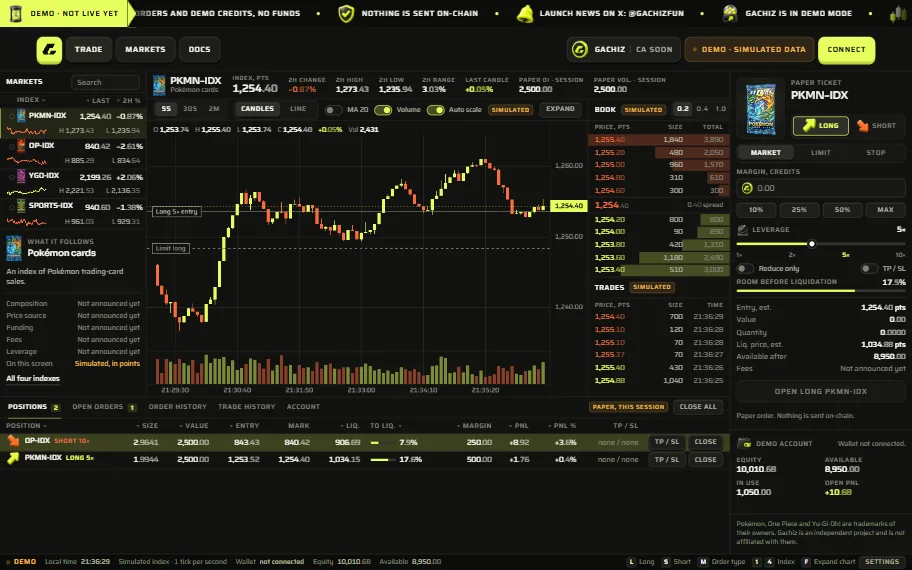
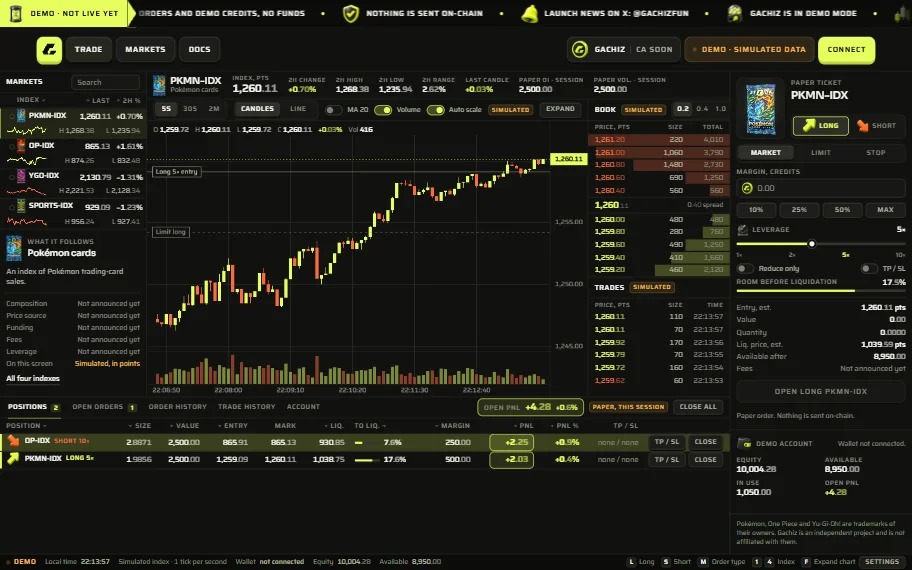
Positions: clearer PnL, footer layout fix

diff --git a/site/docs/index.html b/site/docs/index.html
@@ -300,7 +300,7 @@
 <p>Read the number next to a market code: that is the index level, in points. The chart shows how it got there.</p>
 <figure class="d-ann d-ann-graphe">
 <div class="d-ann-zone">
-<div class="d-ann-img"><img src="/docs/img/graphe.webp" width="1080" height="796" alt="The chart of the demo for PKMN-IDX: the market summary above, the chart tools, candles in points with simulated volume bars, an entry line across the chart and the live level on the right." loading="lazy" decoding="async"><svg class="d-ann-calque" viewBox="0 0 540 398" aria-hidden="true"><defs><linearGradient id="gd-graphe-2" gradientUnits="userSpaceOnUse" x1="162" y1="0" x2="162" y2="-10"><stop class="g0b" offset="0"/><stop class="g1" offset="1"/></linearGradient><linearGradient id="gd-graphe-5" gradientUnits="userSpaceOnUse" x1="0" y1="71.5" x2="-12" y2="71.5"><stop class="g0b" offset="0"/><stop class="g1" offset="1"/></linearGradient><linearGradient id="gd-graphe-7" gradientUnits="userSpaceOnUse" x1="540" y1="164.7" x2="552" y2="164.7"><stop class="g0b" offset="0"/><stop class="g1" offset="1"/></linearGradient><linearGradient id="gd-graphe-8" gradientUnits="userSpaceOnUse" x1="0" y1="367" x2="-12" y2="367"><stop class="g0b" offset="0"/><stop class="g1" offset="1"/></linearGradient></defs><path class="an-t s-z" d="M7.8 16.7H-12"/><path class="an-t" stroke="url(#gd-graphe-2)" d="M162 0V-10"/><path class="an-t s-z s-p" d="M495.5 0V-10"/><path class="an-t s-z s-p" d="M540 47.3H552"/><path class="an-t" stroke="url(#gd-graphe-5)" d="M0 71.5H-12"/><path class="an-t s-z" d="M0 171.5H-12"/><path class="an-t" stroke="url(#gd-graphe-7)" d="M540 164.7H552"/><path class="an-t" stroke="url(#gd-graphe-8)" d="M0 367H-12"/><path class="an-t s-z" d="M46.6 398V408"/></svg><span class="d-ann-n n1">1</span><span class="d-ann-n n2">2</span><span class="d-ann-n n3">3</span><span class="d-ann-n n4">4</span><span class="d-ann-n n5">5</span><span class="d-ann-n n6">6</span><span class="d-ann-n n7">7</span><span class="d-ann-n n8">8</span><span class="d-ann-n n9">9</span></div>
+<div class="d-ann-img"><img src="/docs/img/graphe.webp" width="1080" height="796" alt="The chart of the demo for PKMN-IDX: the market summary above, the chart tools, candles in points with simulated volume bars, an entry line across the chart and the live level on the right." loading="lazy" decoding="async"><svg class="d-ann-calque" viewBox="0 0 540 398" aria-hidden="true"><defs><linearGradient id="gd-graphe-2" gradientUnits="userSpaceOnUse" x1="162" y1="0" x2="162" y2="-10"><stop class="g0b" offset="0"/><stop class="g1" offset="1"/></linearGradient><linearGradient id="gd-graphe-5" gradientUnits="userSpaceOnUse" x1="0" y1="71.5" x2="-12" y2="71.5"><stop class="g0b" offset="0"/><stop class="g1" offset="1"/></linearGradient><linearGradient id="gd-graphe-7" gradientUnits="userSpaceOnUse" x1="540" y1="107.3" x2="552" y2="107.3"><stop class="g0b" offset="0"/><stop class="g1" offset="1"/></linearGradient><linearGradient id="gd-graphe-8" gradientUnits="userSpaceOnUse" x1="0" y1="367" x2="-12" y2="367"><stop class="g0b" offset="0"/><stop class="g1" offset="1"/></linearGradient></defs><path class="an-t s-z" d="M7.8 16.7H-12"/><path class="an-t" stroke="url(#gd-graphe-2)" d="M162 0V-10"/><path class="an-t s-z s-p" d="M495.5 0V-10"/><path class="an-t s-z s-p" d="M540 47.3H552"/><path class="an-t" stroke="url(#gd-graphe-5)" d="M0 71.5H-12"/><path class="an-t s-z" d="M0 122.6H-12"/><path class="an-t" stroke="url(#gd-graphe-7)" d="M540 107.3H552"/><path class="an-t" stroke="url(#gd-graphe-8)" d="M0 367H-12"/><path class="an-t s-z" d="M46.6 398V408"/></svg><span class="d-ann-n n1">1</span><span class="d-ann-n n2">2</span><span class="d-ann-n n3">3</span><span class="d-ann-n n4">4</span><span class="d-ann-n n5">5</span><span class="d-ann-n n6">6</span><span class="d-ann-n n7">7</span><span class="d-ann-n n8">8</span><span class="d-ann-n n9">9</span></div>
 <div class="d-ann-ets" aria-hidden="true"><p class="d-ann-et e1 c-g"><b>1</b>Market in view</p><p class="d-ann-et e2 c-h"><b>2</b>Level, 2h change</p><p class="d-ann-et e3 c-h"><b>3</b>Session figures</p><p class="d-ann-et e4 c-d"><b>4</b>Chart tools</p><p class="d-ann-et e5 c-g"><b>5</b>O, H, L, C</p><p class="d-ann-et e6 c-g"><b>6</b>Your entry</p><p class="d-ann-et e7 c-d"><b>7</b>Live level</p><p class="d-ann-et e8 c-g"><b>8</b>Volume</p><p class="d-ann-et e9 c-b"><b>9</b>Time</p></div>
 </div>
 <figcaption><ol class="d-ann-leg deux"><li><b>Market in view.</b> The pack and the code of the index on screen.</li><li><b>Level, 2h change.</b> The index now, in points, moving one step per second, and its move over the last two hours.</li><li><b>Session figures.</b> Paper open interest and paper volume of this session. Funding reads Not announced yet.</li><li><b>Chart tools.</b> Candle size, candles or line, MA 20, volume, auto scale and expand.</li><li><b>O, H, L, C.</b> Open, high, low and close of the candle under the pointer, or of the last one, with its volume.</li><li><b>Your entry.</b> A solid line at the entry of your open position on this market.</li><li><b>Live level.</b> The dotted line and its tag follow the index.</li><li><b>Volume.</b> Simulated volume bars, one per candle.</li><li><b>Time.</b> The time of each candle, on your clock.</li></ol></figcaption>
@@ -497,7 +497,7 @@
 <p>A long and a short do not read the same way. The liquidation level is on the far side of the entry from where you want the index to go.</p>
 <figure class="d-ann d-ann-liquidation">
 <div class="d-ann-zone">
-<div class="d-ann-img"><img src="/docs/img/liquidation.webp" width="1440" height="100" alt="Two open paper positions in the demo, a short of OP-IDX at 10 times and a long of PKMN-IDX at 5 times, with entry and mark, liquidation level and the room left before it." loading="lazy" decoding="async"><svg class="d-ann-calque" viewBox="0 0 720 50" aria-hidden="true"><defs><linearGradient id="gd-liquidation-2" gradientUnits="userSpaceOnUse" x1="260.8" y1="47.2" x2="260.8" y2="60"><stop class="g0b" offset="0"/><stop class="g1" offset="1"/></linearGradient><linearGradient id="gd-liquidation-3" gradientUnits="userSpaceOnUse" x1="398" y1="47.2" x2="398" y2="60"><stop class="g0b" offset="0"/><stop class="g1" offset="1"/></linearGradient></defs><path class="an-t s-z" d="M335.5 -2.5V-10"/><path class="an-t" stroke="url(#gd-liquidation-2)" d="M260.8 47.2V60"/><path class="an-t" stroke="url(#gd-liquidation-3)" d="M398 47.2V60"/></svg><span class="d-ann-n n1">1</span><span class="d-ann-n n2">2</span><span class="d-ann-n n3">3</span></div>
+<div class="d-ann-img"><img src="/docs/img/liquidation.webp" width="1440" height="100" alt="Two open paper positions in the demo, a short of OP-IDX at 10 times and a long of PKMN-IDX at 5 times, with entry and mark, liquidation level and the room left before it." loading="lazy" decoding="async"><svg class="d-ann-calque" viewBox="0 0 720 50" aria-hidden="true"><defs><linearGradient id="gd-liquidation-2" gradientUnits="userSpaceOnUse" x1="249.6" y1="47.4" x2="249.6" y2="60"><stop class="g0b" offset="0"/><stop class="g1" offset="1"/></linearGradient><linearGradient id="gd-liquidation-3" gradientUnits="userSpaceOnUse" x1="380.8" y1="47.4" x2="380.8" y2="60"><stop class="g0b" offset="0"/><stop class="g1" offset="1"/></linearGradient></defs><path class="an-t s-z" d="M321 -2.5V-10"/><path class="an-t" stroke="url(#gd-liquidation-2)" d="M249.6 47.4V60"/><path class="an-t" stroke="url(#gd-liquidation-3)" d="M380.8 47.4V60"/></svg><span class="d-ann-n n1">1</span><span class="d-ann-n n2">2</span><span class="d-ann-n n3">3</span></div>
 <div class="d-ann-ets" aria-hidden="true"><p class="d-ann-et e1 c-h"><b>1</b>Liquidation level</p><p class="d-ann-et e2 c-b"><b>2</b>Entry, mark</p><p class="d-ann-et e3 c-b"><b>3</b>Room left</p></div>
 </div>
 <figcaption><ol class="d-ann-leg"><li><b>Liquidation level.</b> Liq. is fixed when the position opens. Above the entry for the short, below it for the long.</li><li><b>Entry, mark.</b> The level at the open, and the level now.</li><li><b>Room left.</b> To liq. is the room left, in percent of the index, with a bar that empties as the index nears the line.</li></ol></figcaption>
@@ -700,13 +700,13 @@
 <p>Open the <span class="ui">Positions</span> tab under the chart. Read a row from left to right: market and side, size, entry and mark, the distance to liquidation, then the result so far.</p>
 <figure class="d-ann d-ann-positions">
 <div class="d-ann-zone">
-<div class="d-ann-img"><img src="/docs/img/positions.webp" width="1440" height="310" alt="The Positions tab of the demo with two open paper positions, one row each: position, size, value, entry and mark, liquidation level, room left, margin, PnL with its trace, PnL in percent, target and stop loss, and the TP / SL and Close buttons." loading="lazy" decoding="async"><svg class="d-ann-calque" viewBox="0 0 720 155" aria-hidden="true"><defs><linearGradient id="gd-positions-5" gradientUnits="userSpaceOnUse" x1="260.8" y1="87.9" x2="260.8" y2="165"><stop class="g0b" offset="0"/><stop class="g1" offset="1"/></linearGradient><linearGradient id="gd-positions-7" gradientUnits="userSpaceOnUse" x1="532.1" y1="87.9" x2="532.1" y2="165"><stop class="g0b" offset="0"/><stop class="g1" offset="1"/></linearGradient></defs><path class="an-t s-z" d="M34.2 0V-10"/><path class="an-t s-z s-p" d="M689.2 0V-10"/><path class="an-t s-z" d="M59.6 87.9V165"/><path class="an-t s-z" d="M165.2 87.9V165"/><path class="an-t" stroke="url(#gd-positions-5)" d="M260.8 87.9V165"/><path class="an-t s-z" d="M398 87.9V165"/><path class="an-t" stroke="url(#gd-positions-7)" d="M532.1 87.9V165"/><path class="an-t s-z s-p" d="M677.5 87.9V165"/></svg><span class="d-ann-n n1">1</span><span class="d-ann-n n2">2</span><span class="d-ann-n n3">3</span><span class="d-ann-n n4">4</span><span class="d-ann-n n5">5</span><span class="d-ann-n n6">6</span><span class="d-ann-n n7">7</span><span class="d-ann-n n8">8</span></div>
-<div class="d-ann-ets" aria-hidden="true"><p class="d-ann-et e1 c-h"><b>1</b>Tabs</p><p class="d-ann-et e2 c-h"><b>2</b>Close all</p><p class="d-ann-et e3 c-b"><b>3</b>Position</p><p class="d-ann-et e4 c-b"><b>4</b>Value</p><p class="d-ann-et e5 c-b"><b>5</b>Entry, mark</p><p class="d-ann-et e6 c-b"><b>6</b>Liquidation</p><p class="d-ann-et e7 c-b"><b>7</b>PnL</p><p class="d-ann-et e8 c-b"><b>8</b>TP / SL, Close</p></div>
+<div class="d-ann-img"><img src="/docs/img/positions.webp" width="1440" height="310" alt="The Positions tab of the demo with two open paper positions, one row each: position, size, value, entry and mark, liquidation level, room left, margin, PnL in a tinted tag, PnL in percent, target and stop loss, and the TP / SL and Close buttons. Above the rows, the Open PnL of all positions together." loading="lazy" decoding="async"><svg class="d-ann-calque" viewBox="0 0 720 155" aria-hidden="true"><defs><linearGradient id="gd-positions-2" gradientUnits="userSpaceOnUse" x1="523.8" y1="0" x2="523.8" y2="-10"><stop class="g0b" offset="0"/><stop class="g1" offset="1"/></linearGradient><linearGradient id="gd-positions-5" gradientUnits="userSpaceOnUse" x1="249.6" y1="88" x2="249.6" y2="165"><stop class="g0b" offset="0"/><stop class="g1" offset="1"/></linearGradient><linearGradient id="gd-positions-7" gradientUnits="userSpaceOnUse" x1="522.8" y1="88" x2="522.8" y2="165"><stop class="g0b" offset="0"/><stop class="g1" offset="1"/></linearGradient></defs><path class="an-t s-z" d="M34.2 0V-10"/><path class="an-t" stroke="url(#gd-positions-2)" d="M523.8 0V-10"/><path class="an-t s-z" d="M57 88V165"/><path class="an-t s-z" d="M158 88V165"/><path class="an-t" stroke="url(#gd-positions-5)" d="M249.6 88V165"/><path class="an-t s-z" d="M380.8 88V165"/><path class="an-t" stroke="url(#gd-positions-7)" d="M522.8 88V165"/><path class="an-t s-z s-p" d="M677.5 88V165"/></svg><span class="d-ann-n n1">1</span><span class="d-ann-n n2">2</span><span class="d-ann-n n3">3</span><span class="d-ann-n n4">4</span><span class="d-ann-n n5">5</span><span class="d-ann-n n6">6</span><span class="d-ann-n n7">7</span><span class="d-ann-n n8">8</span></div>
+<div class="d-ann-ets" aria-hidden="true"><p class="d-ann-et e1 c-h"><b>1</b>Tabs</p><p class="d-ann-et e2 c-h"><b>2</b>Open PnL</p><p class="d-ann-et e3 c-b"><b>3</b>Position</p><p class="d-ann-et e4 c-b"><b>4</b>Value</p><p class="d-ann-et e5 c-b"><b>5</b>Entry, mark</p><p class="d-ann-et e6 c-b"><b>6</b>Liquidation</p><p class="d-ann-et e7 c-b"><b>7</b>PnL</p><p class="d-ann-et e8 c-b"><b>8</b>TP / SL, Close</p></div>
 </div>
-<figcaption><ol class="d-ann-leg deux"><li><b>Tabs.</b> Positions, Open orders, Order history, Trade history and Account, with their counts.</li><li><b>Close all.</b> Closes every open position at once.</li><li><b>Position.</b> The index, the side and the leverage chosen at the open.</li><li><b>Value.</b> Size is the quantity of index. Value is margin times leverage, in credits.</li><li><b>Entry, mark.</b> The level at the open, and the level now.</li><li><b>Liquidation.</b> Liq. is the level where the position closes by itself. To liq. is the room left before it.</li><li><b>PnL.</b> The result so far, in credits and as a share of the margin, with its trace.</li><li><b>TP / SL, Close.</b> Set the target and the stop loss, or close the position now.</li></ol></figcaption>
+<figcaption><ol class="d-ann-leg deux"><li><b>Tabs.</b> Positions, Open orders, Order history, Trade history and Account, with their counts.</li><li><b>Open PnL.</b> The result of all open positions together. Close all, beside it, closes them at once.</li><li><b>Position.</b> The index, the side and the leverage chosen at the open.</li><li><b>Value.</b> Size is the quantity of index. Value is margin times leverage, in credits.</li><li><b>Entry, mark.</b> The level at the open, and the level now.</li><li><b>Liquidation.</b> Liq. is the level where the position closes by itself. To liq. is the room left before it.</li><li><b>PnL.</b> The result so far, in credits and as a share of the margin. Lime when the position is up, orange when it is down.</li><li><b>TP / SL, Close.</b> Set the target and the stop loss, or close the position now.</li></ol></figcaption>
 </figure>
 <h2 id="positions-columns">Column by column</h2>
-<div class="d-table-x"><table class="d-table"><thead><tr><th scope="col">Column</th><th scope="col">What it is</th></tr></thead><tbody><tr><td>Position</td><td>The index, the side and the leverage chosen at the open.</td></tr><tr><td>Size</td><td>The quantity of index held, in units of the index.</td></tr><tr><td>Value</td><td>Margin times leverage, in credits.</td></tr><tr><td>Entry</td><td>The level at the open, in points.</td></tr><tr><td>Mark</td><td>The level now. It moves one step per second.</td></tr><tr><td>Liq.</td><td>The level where the position closes by itself. Fixed at the open.</td></tr><tr><td>To liq.</td><td>The room left before that level, in percent, with a bar that empties as the index nears it.</td></tr><tr><td>Margin</td><td>What is locked behind the position.</td></tr><tr><td>PnL</td><td>The result so far, in credits, with its trace.</td></tr><tr><td>PnL %</td><td>The same result as a share of the margin.</td></tr><tr><td>TP / SL</td><td>The target and the stop loss, or none.</td></tr><tr><td><span class="ui">TP / SL</span> <span class="ui">Close</span></td><td>Set the exits of the position, or close it now.</td></tr></tbody></table></div>
+<div class="d-table-x"><table class="d-table"><thead><tr><th scope="col">Column</th><th scope="col">What it is</th></tr></thead><tbody><tr><td>Position</td><td>The index, the side and the leverage chosen at the open.</td></tr><tr><td>Size</td><td>The quantity of index held, in units of the index.</td></tr><tr><td>Value</td><td>Margin times leverage, in credits.</td></tr><tr><td>Entry</td><td>The level at the open, in points.</td></tr><tr><td>Mark</td><td>The level now. It moves one step per second.</td></tr><tr><td>Liq.</td><td>The level where the position closes by itself. Fixed at the open.</td></tr><tr><td>To liq.</td><td>The room left before that level, in percent, with a bar that empties as the index nears it.</td></tr><tr><td>Margin</td><td>What is locked behind the position.</td></tr><tr><td>PnL</td><td>The result so far, in credits. Its tag is lime when the position is up, orange when it is down.</td></tr><tr><td>PnL %</td><td>The same result as a share of the margin.</td></tr><tr><td>TP / SL</td><td>The target and the stop loss, or none.</td></tr><tr><td><span class="ui">TP / SL</span> <span class="ui">Close</span></td><td>Set the exits of the position, or close it now.</td></tr></tbody></table></div>
 <p>Press a column title to sort the rows by it.</p>
 <h2 id="positions-pnl">How PnL is counted</h2>
 <ol class="d-seq"><li>Take the move of the index since the entry, in percent.</li><li>Apply it to the position size. For a short, flip the sign.</li><li>That is the PnL in credits. The second figure is the same PnL as a share of your margin.</li></ol>

diff --git a/site/trade/trade.css b/site/trade/trade.css
@@ -192,8 +192,9 @@ body.app { overflow: hidden; }
 .compte-faits dd.baisse, .bilan dd.baisse { color: var(--down); }
 
 /* ---------- Bas : onglets, tableaux, compte ---------- */
-.onglets-rang { flex: none; display: flex; align-items: center; justify-content: space-between; gap: 10px; height: var(--pan); padding-right: var(--bord); border-bottom: 1px solid var(--div-1); }
-.onglets { position: relative; display: flex; height: 100%; padding: 0 4px; }
+/* La rangée passe sur deux lignes quand les onglets et les gestes ne tiennent plus côte à côte. */
+.onglets-rang { flex: none; display: flex; flex-wrap: wrap; align-items: center; justify-content: space-between; gap: 0 10px; min-height: var(--pan); padding-right: var(--bord); border-bottom: 1px solid var(--div-1); }
+.onglets { position: relative; display: flex; height: calc(var(--pan) - 1px); padding: 0 4px; }
 .onglets button {
   appearance: none; display: inline-flex; align-items: center; gap: 6px; height: 100%; padding: 0 9px; border: 0; background: none;
   color: var(--text-3); font: 600 10.5px/1 var(--texte); letter-spacing: .07em; text-transform: uppercase; white-space: nowrap; cursor: pointer;
@@ -206,7 +207,7 @@ body.app { overflow: hidden; }
 .pret .onglets-curseur { transition: transform 220ms var(--courbe), width 220ms var(--courbe); }
 .compteur { min-width: 16px; padding: 2px 4px; border-radius: 4px; background: var(--muted); color: var(--text-2); font-size: 10px; letter-spacing: 0; text-align: center; }
 .compteur.a-du-monde { background: var(--zest-12); color: var(--zest); }
-.onglets-gestes { display: flex; align-items: center; gap: 8px; padding-bottom: 2px; }
+.onglets-gestes { display: flex; align-items: center; gap: 8px; margin-left: auto; padding-bottom: 2px; }
 .panneau { flex: 1; min-height: 0; overflow: auto; scrollbar-width: thin; scrollbar-color: var(--div-2) transparent; }
 .panneau:focus-visible { outline-offset: -2px; }
 .cellule-jauge .jauge { display: inline-block; width: 40px; margin-right: 6px; vertical-align: middle; }
@@ -259,6 +260,11 @@ body.app { overflow: hidden; }
 }
 
 /* ---------- Tablette et téléphone : une colonne, le ticket sous le graphique ---------- */
+@media (min-width: 901px) and (max-width: 1320px) { .onglets-gestes .simule { display: none; } }
+@media (max-width: 1100px) {
+  .onglets-gestes { flex: 1 1 100%; justify-content: flex-end; padding: 2px 0 8px var(--bord); }
+  .onglets-gestes .pnl-total { margin-right: auto; }
+}
 @media (max-width: 900px) {
   body.app { overflow: auto; }
   .terminal { display: flex; flex-direction: column; height: auto; min-height: 0; padding-bottom: var(--etat-h); }
@@ -279,8 +285,8 @@ body.app { overflow: hidden; }
   .carnet { order: 4; border-left: 0; overflow: visible; }
   .echanges { flex: none; overflow: visible; }
   .bas { order: 5; }
-  .onglets-rang { height: auto; flex-wrap: wrap; padding-right: 0; }
-  .onglets { height: var(--pan); overflow-x: auto; scrollbar-width: none; max-width: 100%; }
+  .onglets-rang { padding-right: 0; }
+  .onglets { overflow-x: auto; scrollbar-width: none; max-width: 100%; }
   .onglets::-webkit-scrollbar { display: none; }
   .onglets-gestes { padding: 6px var(--bord) 8px; }
   .panneau { overflow: visible; }
@@ -290,8 +296,9 @@ body.app { overflow: hidden; }
   .centre.plein { top: 0; z-index: 44; }
   .app .alertes { left: 12px; right: 12px; width: auto; }
 }
-@media (max-width: 720px) {
-  /* Les tableaux du bas deviennent des fiches : une étiquette au-dessus de chaque valeur. */
+@media (max-width: 900px) {
+  /* Les tableaux du bas deviennent des fiches : une étiquette au-dessus de chaque valeur. Dès 900 px : en dessous,
+     un tableau de onze colonnes ne tient plus dans la page. */
   .bas .grille, .bas .grille tbody { display: block; }
   .bas .grille thead { display: none; }
   .bas .grille tr { display: grid; grid-template-columns: repeat(3, minmax(0, 1fr)); gap: 10px 12px; padding: 12px var(--bord); border-bottom: 1px solid var(--div-1); }
@@ -309,3 +316,33 @@ body.app { overflow: hidden; }
 
 /* Le jeton dans la barre de l'app : seulement quand la place est là. */
 @media (max-width: 1100px) { .app .puce-jeton, .page-marches .puce-jeton { display: none; } }
+
+/* Le PnL, bien en vue : une pastille teintée par position, un filet de couleur en tête de ligne, et le total des
+   positions ouvertes en haut du panneau. */
+.pnl-pastille { display: inline-block; min-width: 70px; padding: 3px 8px; border: 1px solid var(--div-2); border-radius: 7px; font-size: 13.5px; font-weight: 700; text-align: right; transition: background-color 160ms var(--courbe), border-color 160ms var(--courbe); }
+.pnl-pastille.hausse { background: var(--zest-12); border-color: var(--zest); }
+.pnl-pastille.baisse { background: var(--down-12); border-color: var(--down); }
+td.pnl-taux { font-size: 13px; font-weight: 700; }
+#t-positions tr.gagne > td:first-child { box-shadow: inset 3px 0 0 var(--zest); }
+#t-positions tr.perd > td:first-child { box-shadow: inset 3px 0 0 var(--down); }
+.pnl-total { display: inline-flex; align-items: baseline; gap: 8px; margin: 0; padding: 2px 9px 3px; border: 1px solid var(--div-2); border-radius: 8px; font-variant-numeric: tabular-nums; white-space: nowrap; transition: background-color 160ms var(--courbe), border-color 160ms var(--courbe); }
+.pnl-total[hidden] { display: none; }
+.pnl-total > span { font: 600 10.5px/1 var(--texte); letter-spacing: .08em; text-transform: uppercase; color: var(--text-3); }
+.pnl-total > b { font-size: 15px; font-weight: 700; }
+.pnl-total > small { font-size: 12px; font-weight: 600; }
+.pnl-total.hausse { background: var(--zest-12); border-color: var(--zest); }
+.pnl-total.baisse { background: var(--down-12); border-color: var(--down); }
+.grille td.pnl-taux.hausse { color: var(--zest); }
+.grille td.pnl-taux.baisse { color: var(--down); }
+@media (max-width: 900px) {
+  #t-positions tr.gagne > td:first-child, #t-positions tr.perd > td:first-child { box-shadow: none; }
+  #t-positions tr.gagne { box-shadow: inset 3px 0 0 var(--zest); }
+  #t-positions tr.perd { box-shadow: inset 3px 0 0 var(--down); }
+  .pnl-pastille { min-width: 0; }
+}
+@media (max-width: 560px) {
+  /* Sur téléphone, le total prend sa propre ligne : rien ne dépasse de l'écran. */
+  .onglets-gestes { flex-wrap: wrap; }
+  .pnl-total { flex: 1 1 100%; }
+  .pnl-total > b { margin-left: auto; }
+}

diff --git a/site/docs/docs.css b/site/docs/docs.css
@@ -552,10 +552,10 @@ html { scroll-behavior: auto; scroll-padding-top: 88px; }
 .d-ann-graphe .e4 { top: 87.3px; }
 .d-ann-graphe .n5 { left: 0%; top: 17.96%; }
 .d-ann-graphe .e5 { top: 111.5px; }
-.d-ann-graphe .n6 { left: 0%; top: 43.09%; }
-.d-ann-graphe .e6 { top: 211.5px; }
-.d-ann-graphe .n7 { left: 100%; top: 41.38%; }
-.d-ann-graphe .e7 { top: 204.7px; }
+.d-ann-graphe .n6 { left: 0%; top: 30.8%; }
+.d-ann-graphe .e6 { top: 162.6px; }
+.d-ann-graphe .n7 { left: 100%; top: 26.96%; }
+.d-ann-graphe .e7 { top: 147.3px; }
 .d-ann-graphe .n8 { left: 0%; top: 92.21%; }
 .d-ann-graphe .e8 { top: 407px; }
 .d-ann-graphe .n9 { left: 8.63%; top: 100%; }
@@ -599,12 +599,12 @@ html { scroll-behavior: auto; scroll-padding-top: 88px; }
 .d-ann-levier .n7 { left: 100.7%; top: 90.17%; }
 .d-ann-levier .e7 { top: 271.4px; }
 .d-ann-liquidation .d-ann-zone { --l: 720px; padding-top: 40px; padding-bottom: 40px; }
-.d-ann-liquidation .n1 { left: 46.6%; top: -5%; }
-.d-ann-liquidation .e1 { left: calc(50% - var(--l) / 2 + 335.5px); }
-.d-ann-liquidation .n2 { left: 36.22%; top: 94.4%; }
-.d-ann-liquidation .e2 { left: calc(50% - var(--l) / 2 + 260.8px); top: 104px; }
-.d-ann-liquidation .n3 { left: 55.28%; top: 94.4%; }
-.d-ann-liquidation .e3 { left: calc(50% - var(--l) / 2 + 398px); top: 104px; }
+.d-ann-liquidation .n1 { left: 44.58%; top: -5%; }
+.d-ann-liquidation .e1 { left: calc(50% - var(--l) / 2 + 321px); }
+.d-ann-liquidation .n2 { left: 34.67%; top: 94.8%; }
+.d-ann-liquidation .e2 { left: calc(50% - var(--l) / 2 + 249.6px); top: 104px; }
+.d-ann-liquidation .n3 { left: 52.89%; top: 94.8%; }
+.d-ann-liquidation .e3 { left: calc(50% - var(--l) / 2 + 380.8px); top: 104px; }
 .d-ann-app .d-ann-zone { --l: 456px; padding-top: 40px; padding-bottom: 40px; }
 .d-ann-app .n1 { left: 7%; top: 0%; }
 .d-ann-app .e1 { left: calc(50% - var(--l) / 2 + 31.9px); }
@@ -651,19 +651,19 @@ html { scroll-behavior: auto; scroll-padding-top: 88px; }
 .d-ann-positions .d-ann-zone { --l: 720px; padding-top: 40px; padding-bottom: 40px; }
 .d-ann-positions .n1 { left: 4.75%; top: 0%; }
 .d-ann-positions .e1 { left: calc(50% - var(--l) / 2 + 34.2px); }
-.d-ann-positions .n2 { left: 95.72%; top: 0%; }
-.d-ann-positions .e2 { left: calc(50% - var(--l) / 2 + 689.2px); }
-.d-ann-positions .n3 { left: 8.28%; top: 56.71%; }
-.d-ann-positions .e3 { left: calc(50% - var(--l) / 2 + 59.6px); top: 209px; }
-.d-ann-positions .n4 { left: 22.94%; top: 56.71%; }
-.d-ann-positions .e4 { left: calc(50% - var(--l) / 2 + 165.2px); top: 209px; }
-.d-ann-positions .n5 { left: 36.22%; top: 56.71%; }
-.d-ann-positions .e5 { left: calc(50% - var(--l) / 2 + 260.8px); top: 209px; }
-.d-ann-positions .n6 { left: 55.28%; top: 56.71%; }
-.d-ann-positions .e6 { left: calc(50% - var(--l) / 2 + 398px); top: 209px; }
-.d-ann-positions .n7 { left: 73.9%; top: 56.71%; }
-.d-ann-positions .e7 { left: calc(50% - var(--l) / 2 + 532.1px); top: 209px; }
-.d-ann-positions .n8 { left: 94.1%; top: 56.71%; }
+.d-ann-positions .n2 { left: 72.75%; top: 0%; }
+.d-ann-positions .e2 { left: calc(50% - var(--l) / 2 + 523.8px); }
+.d-ann-positions .n3 { left: 7.92%; top: 56.77%; }
+.d-ann-positions .e3 { left: calc(50% - var(--l) / 2 + 57px); top: 209px; }
+.d-ann-positions .n4 { left: 21.94%; top: 56.77%; }
+.d-ann-positions .e4 { left: calc(50% - var(--l) / 2 + 158px); top: 209px; }
+.d-ann-positions .n5 { left: 34.67%; top: 56.77%; }
+.d-ann-positions .e5 { left: calc(50% - var(--l) / 2 + 249.6px); top: 209px; }
+.d-ann-positions .n6 { left: 52.89%; top: 56.77%; }
+.d-ann-positions .e6 { left: calc(50% - var(--l) / 2 + 380.8px); top: 209px; }
+.d-ann-positions .n7 { left: 72.61%; top: 56.77%; }
+.d-ann-positions .e7 { left: calc(50% - var(--l) / 2 + 522.8px); top: 209px; }
+.d-ann-positions .n8 { left: 94.1%; top: 56.77%; }
 .d-ann-positions .e8 { left: calc(50% - var(--l) / 2 + 677.5px); top: 209px; }
 .d-ann-compte .d-ann-zone { --l: 287px; padding-top: 0px; padding-bottom: 0px; }
 .d-ann-compte .n1 { left: 100.7%; top: 19.15%; }

diff --git a/site/styles.css b/site/styles.css
@@ -306,18 +306,19 @@ details p { padding: 0 var(--marge) 20px; max-width: 64ch; color: var(--text-2);
 .pied { position: relative; margin-top: clamp(150px, 22vh, 190px); background: var(--sheet); color: var(--text-2); }
 .pied::before { content: ""; position: absolute; left: 0; right: 0; top: -8px; height: 8px; background: conic-gradient(from 135deg at 50% 0, var(--sheet) 90deg, transparent 0) 0 0 / 16px 8px repeat-x; }
 .pied-soudure { height: 30px; background: repeating-linear-gradient(to bottom, transparent 0 5px, var(--div-2) 5px 6px); border-bottom: 1px solid var(--div-2); }
-.pied-corps { position: relative; display: grid; grid-template-columns: minmax(0, 1fr) minmax(0, 1.5fr); gap: 28px; align-items: start; max-width: var(--colonne); margin: 0 auto; padding: clamp(32px, 6vh, 56px) var(--marge) 30px; }
+.pied-corps { position: relative; display: grid; grid-template-columns: minmax(0, 1fr) minmax(min-content, 1.5fr); gap: 28px; align-items: start; max-width: var(--colonne); margin: 0 auto; padding: clamp(32px, 6vh, 56px) var(--marge) 30px; }
 .pied-marque { display: flex; align-items: center; gap: 14px; }
 .pied-phrase { font: 500 clamp(17px, 1.5vw, 20px)/1.25 var(--titre); letter-spacing: -.02em; color: var(--text-1); }
-.pied-liens { display: grid; grid-template-columns: repeat(4, minmax(0, auto)); justify-content: space-between; gap: 20px 28px; }
+/* Aucune colonne ne passe sous la largeur de ce qu'elle porte : le logo de la chaîne ne recouvre jamais sa voisine. */
+.pied-liens { display: grid; grid-template-columns: repeat(4, auto); justify-content: space-between; gap: 20px 28px; }
 .pied-liens .logo-chaine { padding: 11px 13px; }
 .pied-liens .logo-chaine img { height: 20px; }
 .pied-liens .libelle { margin-bottom: 10px; }
-.pied-liens a { display: block; width: fit-content; padding: 4px 0; color: var(--text-1); text-decoration: none; border-bottom: 1px solid transparent; transition: border-color 120ms var(--courbe); }
+.pied-liens a { display: block; width: fit-content; padding: 4px 0; white-space: nowrap; color: var(--text-1); text-decoration: none; border-bottom: 1px solid transparent; transition: border-color 120ms var(--courbe); }
 .pied-liens a:hover { border-bottom-color: var(--zest); }
 .pied-etat { display: flex; align-items: baseline; gap: 10px; margin-bottom: 12px; font-size: 14px; }
 .voyant { flex: none; width: 8px; height: 8px; border-radius: 50%; background: var(--zest); box-shadow: 0 0 0 4px var(--zest-12); transform: translateY(-1px); }
-.puce-son { height: 44px; padding: 0 14px 0 6px; gap: 6px; }
+.puce-son { height: 44px; padding: 0 14px 0 6px; gap: 6px; white-space: nowrap; }
 .puce-son img { width: 32px; height: 32px; transition: opacity 160ms var(--courbe), transform 360ms var(--retour); }
 .puce-son:hover img { transform: rotate(-8deg) scale(1.08); }
 .puce-son[aria-pressed="false"] { color: var(--text-3); }
@@ -400,6 +401,8 @@ details p { padding: 0 var(--marge) 20px; max-width: 64ch; color: var(--text-2);
 .js .apparait.vu { opacity: 1; filter: blur(0); transform: none; }
 
 /* ---------- Tablette et téléphone ---------- */
+/* Sous 940 px, la phrase du pied n'a plus sa place à côté des quatre colonnes : elle passe au-dessus. */
+@media (max-width: 940px) { .pied-corps { grid-template-columns: minmax(0, 1fr); } }
 @media (max-width: 900px) {
   .liens { display: none; }
   .jeton-ca { display: none; }

diff --git a/site/trade/trade.js b/site/trade/trade.js
@@ -1103,7 +1103,11 @@ function rendrePositions() {
     const part = piece('b')
     reste.append(jauge, part)
     nombreDans(tr, 'Margin', p.marge)
-    p.el = { marque, jauge, part, pnl: cellule(tr, 'PnL', 'num'), taux: cellule(tr, 'PnL %', 'num') }
+    // Le PnL est ce qu'on cherche d'abord dans une position : une pastille teintée, et un filet de couleur en tête de ligne.
+    const gainCase = cellule(tr, 'PnL', 'num')
+    const gainPastille = piece('span', 'pnl-pastille')
+    gainCase.append(gainPastille)
+    p.el = { rang: tr, marque, jauge, part, pnl: gainPastille, taux: cellule(tr, 'PnL %', 'num pnl-taux') }
     cellule(tr, 'TP / SL', `num${p.tp || p.sl ? '' : ' gris'}`, sorties(p))
     cellule(tr, '', 'act').append(
       bouton('TP / SL', `Set target and stop loss on ${p.code} ${p.sens}`, () => {
@@ -1179,10 +1183,16 @@ function editeur(p) {
   return tr
 }
 function majPositions() {
+  let total = 0
+  let marges = 0
   for (const p of compte.positions) {
     if (!p.el) continue
     const prix = parCode[p.code].prix
     const gain = pnlDe(p, prix)
+    total += gain
+    marges += p.marge
+    p.el.rang.classList.toggle('gagne', gain > 0.005)
+    p.el.rang.classList.toggle('perd', gain < -0.005)
     const reste = resteDe(p, prix)
     ecrire(p.el.marque, prix)
     ecrire(p.el.pnl, gain, { signe: true })
@@ -1191,6 +1201,14 @@ function majPositions() {
     ton(p.el.taux, gain)
     ecrire(p.el.part, reste * 100, { dec: 1, suffixe: '%' })
     reglerJauge(p.el.jauge, reste)
+  }
+  // Le total des positions ouvertes, en tête du panneau.
+  const boite = $('pnl-total')
+  if (boite) {
+    boite.hidden = !compte.positions.length
+    ecrire($('pnl-total-val'), total, { signe: true })
+    ecrire($('pnl-total-taux'), marges ? (total / marges) * 100 : 0, { dec: 1, signe: true, suffixe: '%' })
+    ton(boite, total)
   }
 }
 function rendreOrdres() {

diff --git a/site/trade/index.html b/site/trade/index.html
@@ -277,6 +277,7 @@
         <button type="button" role="tab" id="o-compte" aria-controls="p-compte" aria-selected="false" tabindex="-1">Account</button>
       </div>
       <div class="onglets-gestes">
+        <p class="pnl-total" id="pnl-total" hidden><span>Open PnL</span><b id="pnl-total-val"></b><small id="pnl-total-taux"></small></p>
         <span class="simule">Paper, this session</span>
         <button class="petit petit-alerte" id="tout-fermer" type="button" disabled>Close all</button>
         <button class="petit petit-alerte" id="tout-annuler" type="button" disabled hidden>Cancel all</button>
